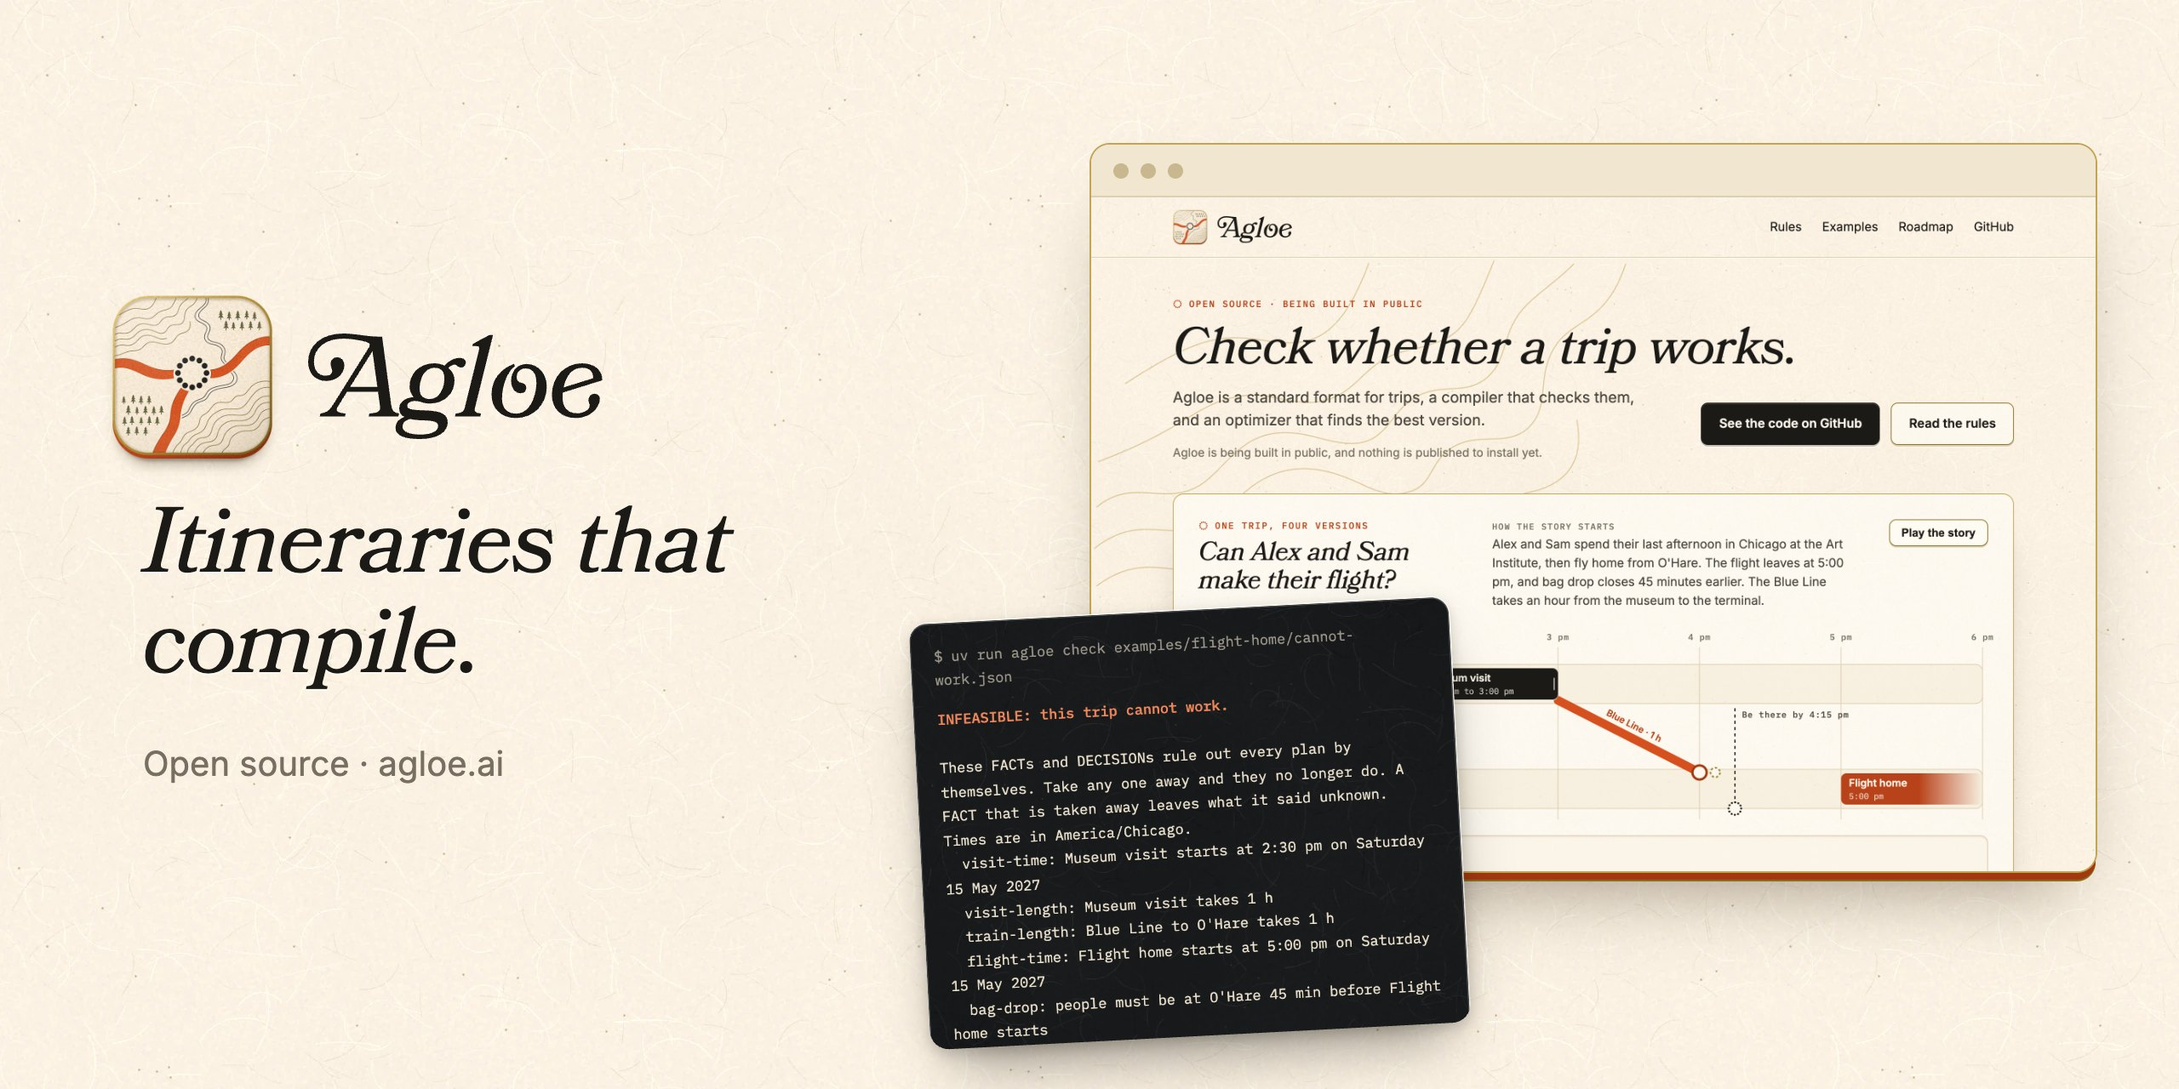
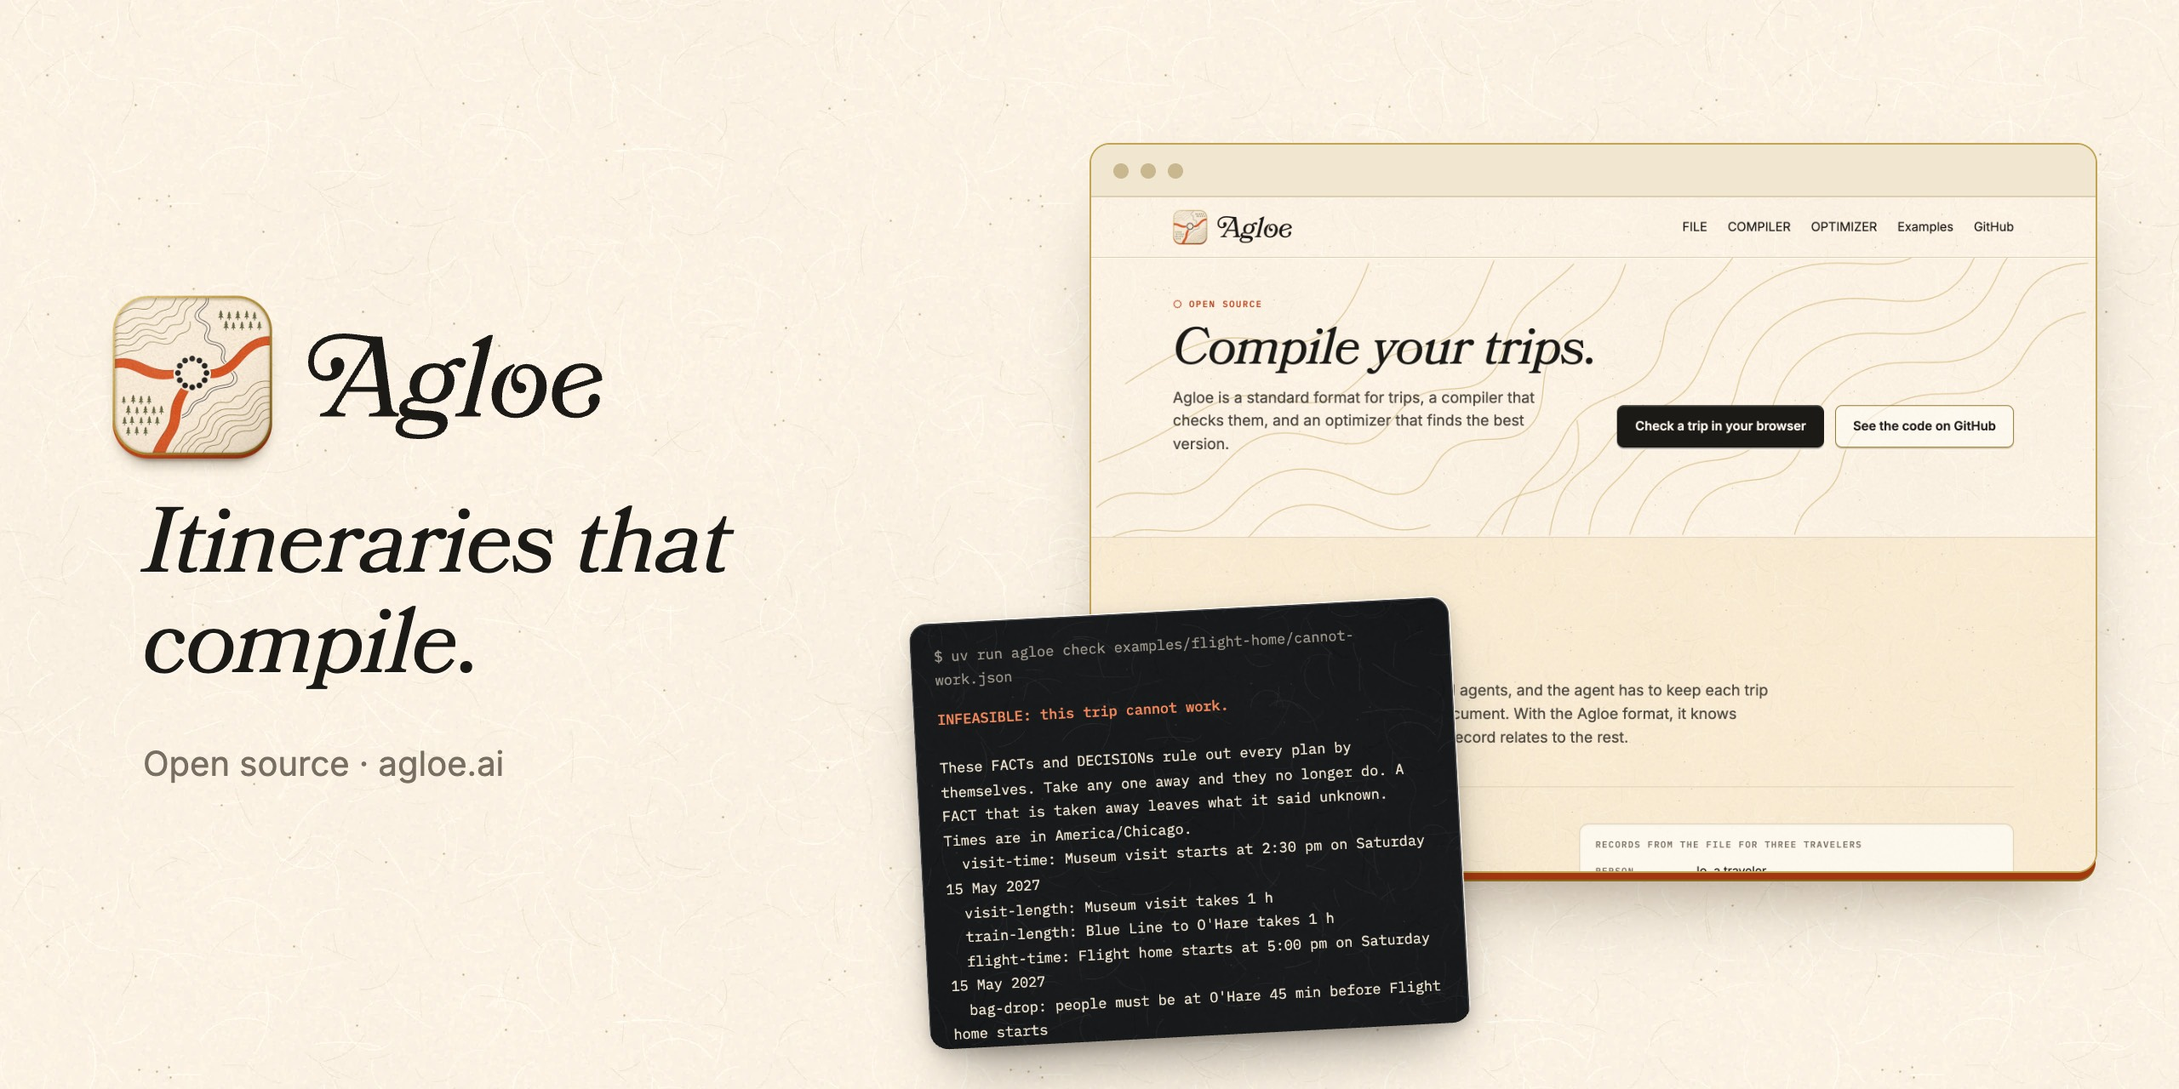
wip: the fixes after the review, and new share pictures

Changed region(s): [[0.5312, 0.375, 0.9375, 0.8125], [0.5312, 0.2812, 0.9062, 0.4375], [0.7812, 0.1875, 0.9062, 0.2188]]

diff --git a/pages/index.html b/pages/index.html
@@ -55,8 +55,8 @@
         <h1>Compile your trips.</h1>
         <p class="lead" data-from="README.md">Agloe is a standard format for trips, a compiler that checks them, and an optimizer that finds the best version.</p>
         <div class="actions">
-          <a class="button" href="https://github.com/ian-c-leonard/agloe">See the code on GitHub</a>
-          <a class="button quiet" href="https://github.com/ian-c-leonard/agloe/blob/main/spec/rules.md">Read the rules</a>
+          <a class="button" href="/check-a-trip/">Check a trip in your browser</a>
+          <a class="button quiet" href="https://github.com/ian-c-leonard/agloe">See the code on GitHub</a>
         </div>
       </div>
     </div>
@@ -64,7 +64,7 @@
 
   <section class="band tint part" id="file" aria-labelledby="file-title">
     <div class="wrap">
-      <div class="stack">
+      <div class="stack" id="why">
         <h2 id="file-title">The FILE</h2>
         <p class="lead">People have started to plan trips with AI agents, and the agent has to keep each trip somewhere. It could keep notes in a document. With the Agloe format, it knows what is worth recording and how each record relates to the rest.</p>
       </div>
@@ -73,11 +73,11 @@
           <div class="stack">
             <h3>What to record, and how</h3>
             <p data-from="spec/rules.md">A FILE lists PERSONs, PLACEs, OPTIONs, WAYs, WANTs, FACTs and DECISIONs. It can list BUDGETs, CAPABILITIES and OBJECTs too.</p>
-            <p>Each record has an id, and one record names another by its id. A FACT names the OPTION it is about. A WANT names the PERSONs who hold it.</p>
+            <p>Each record has an id, and one record names another by its id. The FACT about the show names its OPTION, and the WANT names the PERSONs who hold it.</p>
             <p class="small">The <a href="https://github.com/ian-c-leonard/agloe/blob/main/src/agloe/schema/file.schema.json">schema</a> defines the structure, and the <a href="https://github.com/ian-c-leonard/agloe/blob/main/spec/vocabulary.md">vocabulary</a> defines each term.</p>
           </div>
           <figure class="anatomy" id="one-of-each">
-            <figcaption>One record of each kind, from a FILE for three travelers</figcaption>
+            <figcaption>Records from the FILE for three travelers</figcaption>
             <dl>
               <div><dt>PERSON</dt><dd><span class="meaning">Jo, a traveler</span><span class="record" data-lines-from="pages/files/three-travelers.json">{ "id": "jo", "name": "Jo" }</span></dd></div>
               <div><dt>PLACE</dt><dd><span class="meaning">The blues club</span><span class="record" data-lines-from="pages/files/three-travelers.json">{ "id": "blues-club", "name": "the blues club" }</span></dd></div>
@@ -96,7 +96,7 @@
             <p>People plan a trip in pieces. A traveler can book one part while another is open. An agent can record what is booked and what is only on offer. It can leave out what nobody knows yet, and the report names what is missing.</p>
           </div>
           <figure class="grows" id="file-grows">
-            <figcaption>One FILE at three moments</figcaption>
+            <figcaption>A FILE of another trip, at three moments</figcaption>
             <p class="story" data-from="spec/rules.md">The Skydeck sells tickets for a set time, and Alex bought one for 10:00 am before Sam decided to come. Both are LOCKed into the visit.</p>
             <ol>
               <li data-file="a-ticket/depends-on-a-ticket">
@@ -138,20 +138,20 @@
               </tbody>
               <tbody class="delivers">
                 <tr><th scope="rowgroup" colspan="4">What delivers it, out of 10</th></tr>
-                <tr data-option="skydeck"><th scope="row">Skydeck visit</th><td>10</td><td></td><td></td></tr>
-                <tr data-option="dinner-pizzeria"><th scope="row">Dinner at the deep-dish place</th><td></td><td>9</td><td></td></tr>
-                <tr data-option="dinner-tavern"><th scope="row">Dinner at the tavern</th><td></td><td></td><td>3</td></tr>
-                <tr data-option="rooftop-set"><th scope="row">Blues on the rooftop</th><td>6</td><td></td><td>7</td></tr>
-                <tr data-option="blues-show"><th scope="row">Blues show at the club</th><td></td><td></td><td>9</td></tr>
+                <tr data-option="skydeck"><th scope="row">Skydeck visit</th><td>10</td><td class="none">0</td><td class="none">0</td></tr>
+                <tr data-option="dinner-pizzeria"><th scope="row">Dinner at the deep-dish place</th><td class="none">0</td><td>9</td><td class="none">0</td></tr>
+                <tr data-option="dinner-tavern"><th scope="row">Dinner at the tavern</th><td class="none">0</td><td class="none">0</td><td>3</td></tr>
+                <tr data-option="rooftop-set"><th scope="row">Blues on the rooftop</th><td>6</td><td class="none">0</td><td>7</td></tr>
+                <tr data-option="blues-show"><th scope="row">Blues show at the club</th><td class="none">0</td><td class="none">0</td><td>9</td></tr>
               </tbody>
             </table>
-            <p class="small">An empty cell under an OPTION means that it does not deliver the WANT.</p>
+            <p class="small">A 0 says that the OPTION does not deliver the WANT.</p>
           </figure>
         </li>
         <li class="why" id="file-requirements">
           <div class="stack">
             <h3>What an OPTION requires</h3>
-            <p>Some OPTIONs are open only to people who meet a requirement. An agent can record a ticket that each PERSON needs, a time to be there, a skill, or a thing to bring.</p>
+            <p>An agent can record what an OPTION requires. Each visitor to the Skydeck needs a ticket. Bag drop for the flight closes 45 minutes before it leaves. The drive to the dunes needs the car and one person who can drive it.</p>
           </div>
           <figure class="asks">
             <figcaption>Four requirements, as a report states them</figcaption>
@@ -167,7 +167,7 @@
             <dl>
               <div>
                 <dt data-from="spec/rules.md">A cab is listed, but nobody has recorded how long it takes.</dt>
-                <dd>An agent can leave the travel time out. Alex and Sam can catch their flight if the cab takes 45 minutes or less.</dd>
+                <dd>An agent can leave the travel time out. If they leave the museum at 3:30 pm, they catch their flight if the cab takes 45 minutes or less.</dd>
               </div>
               <div>
                 <dt>From noon to 6:00 pm, only the Blue Line leaves straight for O'Hare.</dt>
@@ -175,7 +175,7 @@
               </div>
               <div>
                 <dt>The Blue Line can take up to 80 minutes.</dt>
-                <dd>An agent can record a range for a ride that the travelers do not control. <span data-from="spec/rules.md">At 80 minutes they reach O'Hare five minutes after bag drop closes.</span></dd>
+                <dd>An agent can record a range for a ride that the travelers do not control. If they leave at 3:00 pm and the ride takes 80 minutes, they reach O'Hare five minutes after bag drop closes.</dd>
               </div>
               <div>
                 <dt>Alex and Sam have decided to go up the Skydeck.</dt>
@@ -205,14 +205,14 @@
       <ol class="whys">
         <li class="why" id="compiler-growth">
           <div class="stack">
-            <h3>What grows as a trip grows</h3>
-            <p>The FILE for three travelers has five OPTIONs. That makes 32,768 choices of who takes part in what, and each choice still has to fit the times and the routes.</p>
+            <h3>How fast the choices grow</h3>
+            <p>The FILE for three travelers has five OPTIONs. Each traveler is in each OPTION or out of it. That makes 15 yes-or-no choices, and 32,768 ways to answer them. Each way still has to fit the times and the routes.</p>
             <p>The COMPILER uses a solver for the search. It is deterministic: it gives the same answer for the same FILE each time.</p>
           </div>
           <figure class="counts" id="choices">
-            <figcaption>Choices of who takes part in what</figcaption>
+            <figcaption>Ways to choose who takes part in what</figcaption>
             <table>
-              <thead><tr><th scope="col">Travelers</th><th scope="col">OPTIONs</th><th scope="col">Choices</th></tr></thead>
+              <thead><tr><th scope="col">Travelers</th><th scope="col">OPTIONs</th><th scope="col">Ways</th></tr></thead>
               <tbody>
                 <tr data-travelers="1" data-options="1"><td>1</td><td>1</td><td>2</td></tr>
                 <tr data-travelers="3" data-options="1"><td>3</td><td>1</td><td>8</td></tr>
@@ -247,11 +247,11 @@ Saturday 15 May 2027 (times in America/Chicago)
           </div>
         </li>
       </ol>
-      <ul class="hows three">
-        <li>
+      <ul class="hows three" id="how">
+        <li id="trip">
           <a class="card preview" href="/check-a-trip/">
             <strong>Check a trip in your browser</strong>
-            <span>Alex and Sam have a flight to catch. Move the museum visit, the train or the flight, and the reference checker answers for the new FILE.</span>
+            <span>Bag drop closes at 4:15 pm. Change when Alex and Sam leave the museum or how long the train takes, and the reference checker answers for the new FILE.</span>
           </a>
         </li>
         <li>
@@ -291,7 +291,7 @@ uv run agloe check examples/a-must/cannot-work.json</pre>
         <li class="why" id="optimizer-scores">
           <div class="stack">
             <h3>Two plans that both work</h3>
-            <p>The plan that the COMPILER shows for the three travelers works, and it gives Jo live blues at 3 out of 10. Another plan works too: the Skydeck for Alex, dinner at the deep-dish place for Alex and Sam, and the show at the club for Sam and Jo.</p>
+            <p>The plan that the COMPILER shows for the three travelers works. Another plan works too: the Skydeck for Alex, dinner at the deep-dish place for Alex and Sam, and the show at the club for Sam and Jo. Jo keeps away from heights in both. Jo hears blues at the tavern, 3 out of 10, or at the club, 9 out of 10.</p>
             <p>The OPTIMIZER will show each PERSON's SCORE beside the total. It will flag plans where one PERSON scores much lower than the others.</p>
             <p class="small" data-from="README.md">See the <a href="https://github.com/ian-c-leonard/agloe/blob/main/docs/ROADMAP.md">roadmap</a> for what each release contains.</p>
           </div>

diff --git a/pages/check-a-trip/index.html b/pages/check-a-trip/index.html
@@ -4,7 +4,7 @@
 <meta charset="utf-8">
 <meta name="viewport" content="width=device-width, initial-scale=1">
 <title>Check a trip in your browser: Agloe</title>
-<meta name="description" content="Alex and Sam have a flight to catch. Move the museum visit, the train or the flight, and the reference checker answers for the new FILE.">
+<meta name="description" content="Bag drop closes at 4:15 pm. Change when Alex and Sam leave the museum or how long the train takes, and the reference checker answers for the new FILE.">
 <meta name="theme-color" content="#FAF2E3">
 <link rel="icon" href="../favicon.ico" sizes="48x48">
 <link rel="icon" type="image/png" sizes="32x32" href="../favicon-32.png">
@@ -16,7 +16,7 @@
 <meta property="og:type" content="article">
 <meta property="og:site_name" content="Agloe">
 <meta property="og:title" content="Check a trip in your browser: Agloe">
-<meta property="og:description" content="Alex and Sam have a flight to catch. Move the museum visit, the train or the flight, and the reference checker answers for the new FILE.">
+<meta property="og:description" content="Bag drop closes at 4:15 pm. Change when Alex and Sam leave the museum or how long the train takes, and the reference checker answers for the new FILE.">
 <meta property="og:url" content="https://agloe.ai/check-a-trip/">
 <meta property="og:image" content="https://agloe.ai/img/social-preview.jpg">
 <meta property="og:image:width" content="1200">
@@ -50,7 +50,7 @@
     <div class="wrap">
       <div class="stack">
         <h1>Check a trip in your browser</h1>
-        <p class="lead">Alex and Sam have a flight to catch. Move the museum visit, the train or the flight, and the reference checker answers for the new FILE.</p>
+        <p class="lead">Bag drop closes at 4:15 pm. Change when Alex and Sam leave the museum or how long the train takes, and the reference checker answers for the new FILE.</p>
       </div>
     </div>
     <div class="wrap">
@@ -269,9 +269,9 @@
           <section class="pane" aria-labelledby="pane-compiler">
             <div class="mile" aria-hidden="true"><svg class="town" viewBox="0 0 24 24" aria-hidden="true"><circle cx="20.40" cy="12.00" r="1.7"/><circle cx="19.27" cy="16.20" r="1.7"/><circle cx="16.20" cy="19.27" r="1.7"/><circle cx="12.00" cy="20.40" r="1.7"/><circle cx="7.80" cy="19.27" r="1.7"/><circle cx="4.73" cy="16.20" r="1.7"/><circle cx="3.60" cy="12.00" r="1.7"/><circle cx="4.73" cy="7.80" r="1.7"/><circle cx="7.80" cy="4.73" r="1.7"/><circle cx="12.00" cy="3.60" r="1.7"/><circle cx="16.20" cy="4.73" r="1.7"/><circle cx="19.27" cy="7.80" r="1.7"/></svg><i></i></div>
             <h3 id="pane-compiler"><span class="release">0.1</span> The COMPILER</h3>
-            <p data-from="docs/VISION.md"><strong>A compiler</strong> that checks the whole plan and explains every conflict.</p>
+            <p>The COMPILER checks the whole plan. If no plan works, the report names one set of records that rules every plan out.</p>
             <p class="small"><strong>The report is made for an AI agent that plans the trip</strong>, more than for a person. Its evidence is a plan, or the records that rule out every plan, or what the FILE would have to say. As data, it names each record by its id. The agent changes the FILE and checks again.</p>
-            <p class="small">The first release is tested by an agent that plans a trip alone. <span data-from="docs/ROADMAP.md">It writes the FILE, reads the COMPILER's reports, and ends with a FEASIBLE TRIP, with no other help.</span></p>
+            <p class="small">The first release will be tested by an agent that plans a trip alone. <span data-from="docs/ROADMAP.md">It writes the FILE, reads the COMPILER's reports, and ends with a FEASIBLE TRIP, with no other help.</span></p>
             <div class="forms" role="radiogroup" aria-labelledby="forms-title">
               <span class="label" id="forms-title">What the agent reads</span>
               <label><input type="radio" name="form" value="words" checked><span>In words</span></label>

diff --git a/pages/how-a-rule-is-built/index.html b/pages/how-a-rule-is-built/index.html
@@ -180,7 +180,7 @@ if not persons or (lacking and (of == "each" or len(lacking) == len(persons))):
         </ol>
         <div class="after-figure">
           <p>Two of the four meet rule 13. The report shows the first of them, Alex and Sam.</p>
-          <p>Three travelers and one OPTION give 8 choices of who takes part. Two OPTIONs give 64. Ten give 1,073,741,824. So the slow checker can only answer small trips. <a href="/check-a-trip/">The trip on the home page</a> runs it in your browser.</p>
+          <p>Three travelers and one OPTION give 8 choices of who takes part. Two OPTIONs give 64. Ten give 1,073,741,824. So the slow checker can only answer small trips. <a href="/check-a-trip/">Alex and Sam's trip</a> runs it in your browser.</p>
         </div>
       </figure>
     </div>

diff --git a/pages/site.css b/pages/site.css
@@ -716,6 +716,7 @@ footer .wrap { display: grid; grid-template-columns: repeat(3, minmax(0, 1fr)); 
 .holds .must, .holds .must-not { font: 500 0.78rem var(--mono); }
 .holds .must-not { color: var(--stop); }
 .holds .delivers td { font: 500 0.95rem var(--mono); }
+.holds .delivers .none { color: var(--muted); font-weight: 400; }
 /* What an OPTION asks for: lines of a report. */
 .asks ul { list-style: none; margin: 0; padding: 0; display: grid; gap: 9px; }
 .asks li { font: 400 0.82rem/1.5 var(--mono); color: var(--ink2); padding-left: 16px; position: relative; overflow-wrap: anywhere; }

diff --git a/tests/test_website.py b/tests/test_website.py
@@ -553,8 +553,8 @@ def test_the_table_of_wants_is_what_the_file_holds() -> None:
     """The home page shows who wants what in the FILE for three travelers, and what delivers it.
 
     Each WANT has a column. Each PERSON has a row that says must or must not under the WANTs
-    they hold. Each OPTION has a row with its DEGREE OF SATISFACTION under each WANT that a
-    FACT says it delivers. A FACT says that each list is whole, so an empty cell means no.
+    they hold. Each OPTION has a row with its DEGREE OF SATISFACTION under each WANT. The FILE
+    has a FACT for every pair of an OPTION and a WANT, so no cell is left to a guess.
     """
     figure = re.search(
         r'<figure class="holds" id="who-wants-what" data-file="([^"]+)">(.*?)</figure>', HOME, re.S
@@ -583,13 +583,12 @@ def test_the_table_of_wants_is_what_the_file_holds() -> None:
         for fact in document["facts"]
         if "satisfies" in fact
     }
-    assert all(degree > 0 for degree in delivered.values())
-    whole = {fact["complete"]["satisfies"] for fact in document["facts"] if "complete" in fact}
-    assert whole == {want["id"] for want in document["wants"]}
+    assert len(delivered) == len(document["options"]) * len(document["wants"])
+    assert not [fact for fact in document["facts"] if "complete" in fact]
     for option, _, cells in options:
-        row = [delivered.get((option, want["id"])) for want in document["wants"]]
+        row = [delivered[option, want["id"]] for want in document["wants"]]
         assert cells == "".join(
-            f"<td>{degree}</td>" if degree else "<td></td>" for degree in row
+            f"<td>{degree}</td>" if degree else '<td class="none">0</td>' for degree in row
         ), option
     assert document["decisions"] == [] and "five OPTIONs and no DECISION" in HOME
 
@@ -636,7 +635,10 @@ def test_the_choices_are_counted_as_the_page_says() -> None:
         len(document["persons"]),
         len(document["options"]),
     )
-    assert f"That makes {marked.group(3)} choices" in HOME
+    pairs = int(marked.group(1)) * int(marked.group(2))
+    assert (
+        f"That makes {pairs} yes-or-no choices, and {marked.group(3)} ways to answer them." in HOME
+    )
 
 
 def score(document: dict[str, Any], plan: dict[str, list[str]]) -> dict[str, int]:
@@ -707,8 +709,18 @@ def test_the_two_plans_work_and_score_as_the_page_says() -> None:
     for plan, column in ((first, 0), (second, 1)):
         for person, points in score(document, plan).items():
             assert int(rows[names[person]][column]) == points, (person, column)
-    # What the page says of the first plan: Jo's live blues, 3 out of 10.
-    assert first["dinner-tavern"] == ["jo"] and "gives Jo live blues at 3 out of 10" in HOME
+    # What the page says of Jo: no view in either plan, and blues at the tavern or at the club.
+    delivered = {
+        (fact["option"], fact["satisfies"]["want"]): fact["satisfies"]["degree"]
+        for fact in document["facts"]
+        if "satisfies" in fact
+    }
+    for plan, place, option in ((first, "tavern", "dinner-tavern"), (second, "club", "blues-show")):
+        taken = [each for each, persons in plan.items() if "jo" in persons]
+        assert taken == [option]
+        assert delivered[option, "view"] == 0
+        assert f"at the {place}, {delivered[option, 'blues']} out of 10" in HOME
+    assert "Jo keeps away from heights in both." in HOME
 
 
 def test_the_page_gives_the_constraint_its_number_on_the_rules_page() -> None:
